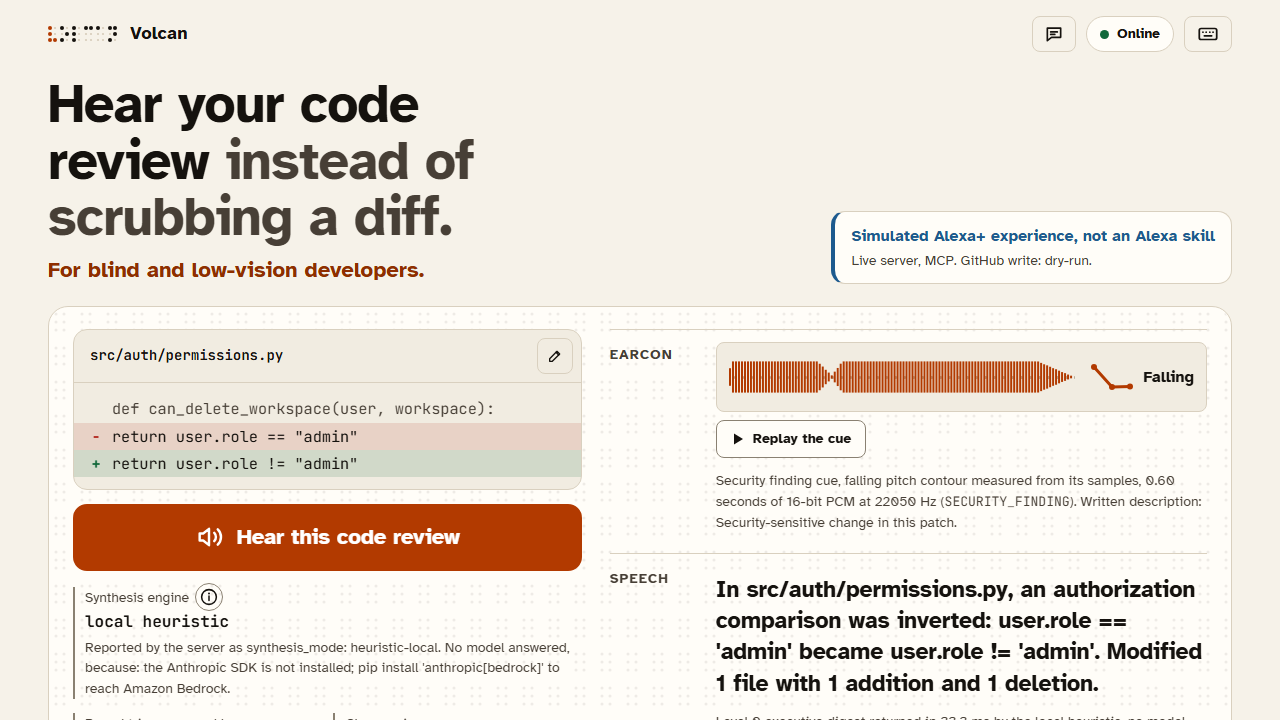
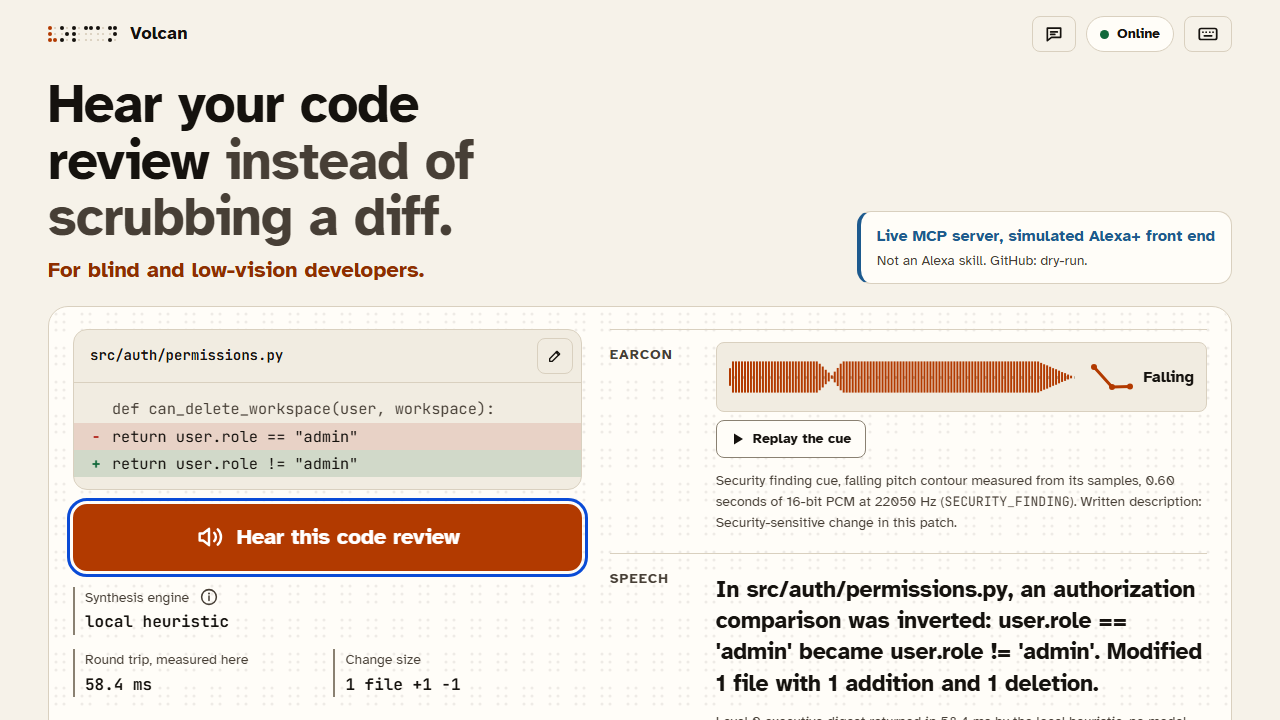
docs: recapture the after-one-press screenshot from the current page
docs/assets/volcan-after-one-press.png still showed the old badge,
"Simulated Alexa+ experience, not an Alexa skill", while the page reads
"Live MCP server, simulated Alexa+ front end". Recaptured at 1280x720 in
the light scheme from a local server on port 8861 started with no cloud
credentials, after Alt+1 then Enter, by a headless Chromium script. The
alt text now describes what this image shows: the engine's reason sits
behind the meter's info button, so it no longer claims the reason text.

diff --git a/README.md b/README.md
@@ -105,7 +105,7 @@ sequenceDiagram
     Volcan-->>Dev: dry run, recorded and not sent, sealed in the audit chain
 ```
 
-![The same screen in the daylight theme after one keyboard press on a local server: the waveform drawn in ember now that the cue has played, a Replay the cue button, the caption naming the falling security finding cue, the whole spoken answer, and the engine meter reading local heuristic with its reason: the Anthropic SDK is not installed.](docs/assets/volcan-after-one-press.png)
+![The same screen in the daylight theme after one keyboard press, Alt+1 then Enter, on a local server with no cloud credentials: the card reading "Live MCP server, simulated Alexa+ front end" and "Not an Alexa skill. GitHub: dry-run.", the focus ring still on Hear this code review, the waveform drawn in ember now that the falling cue has played, a Replay the cue button and its caption, the spoken sentence naming the inverted authorization comparison, and the engine meter reading local heuristic beside the round trip measured on that run.](docs/assets/volcan-after-one-press.png)
 
 ## Run it locally
 
